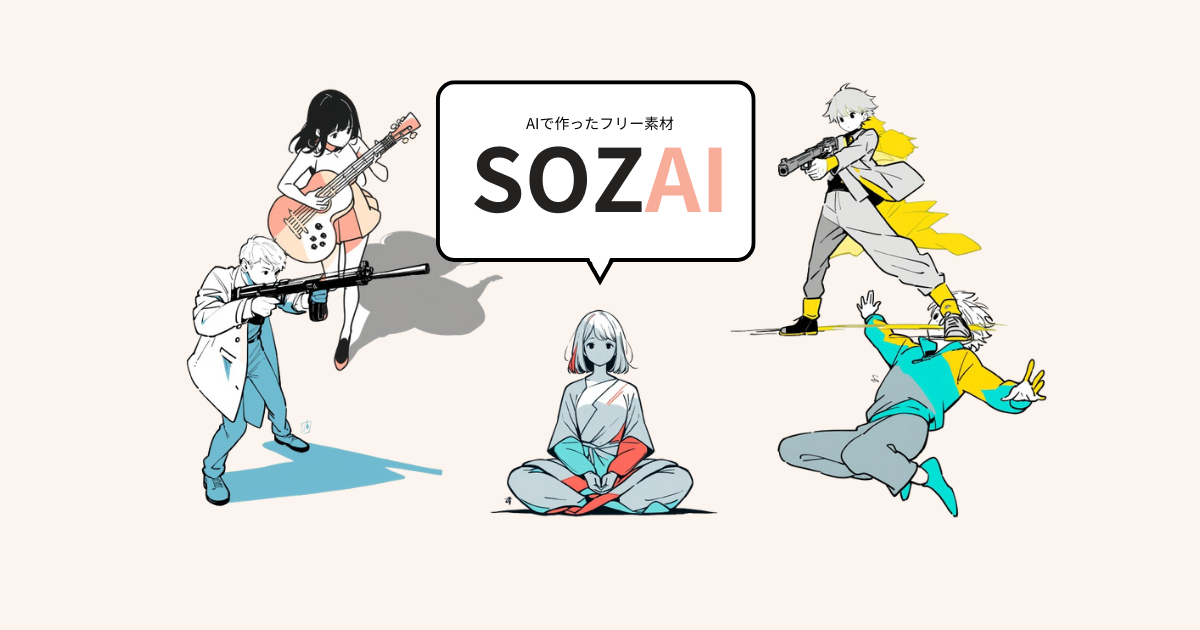
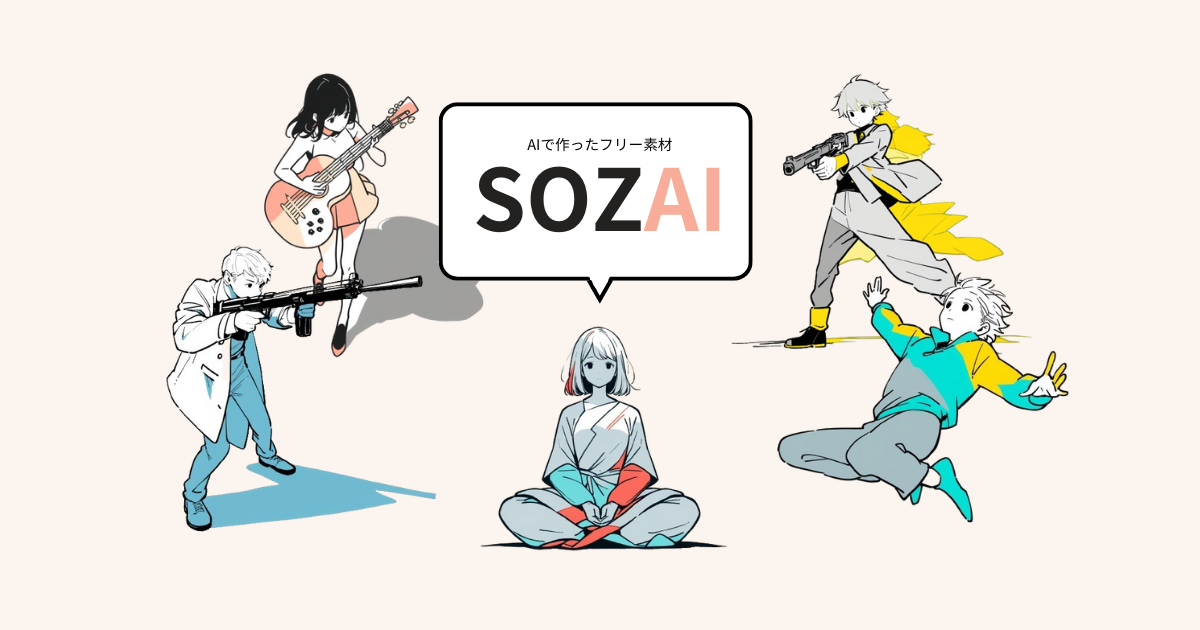
fix: ogpやfaviconを修正しました。

Changed region(s): [[0.1233, 0.1206, 0.8942, 0.8746]]

diff --git a/src/app/components/Hero/Hero.tsx b/src/app/components/Hero/Hero.tsx
@@ -6,7 +6,7 @@ const Hero = async () => {
     const Categories = await getCategoryList()
     return (
         <div className="h-[calc(100vh-80px)]">
-            <Image src="/images/hero-2.png" width={3000} height={1000} alt="" className="w-full h-[100%] object-cover" />
+            <Image src="/images/hero-3.png" width={1200} height={700} alt="" className="w-full h-[100%] object-cover" />
             {/* <div className="h-[30%]">
                 <div className="container mx-auto h-full flex items-center px-[15px]">
                     <CategoryList contents={Categories.contents}/>
